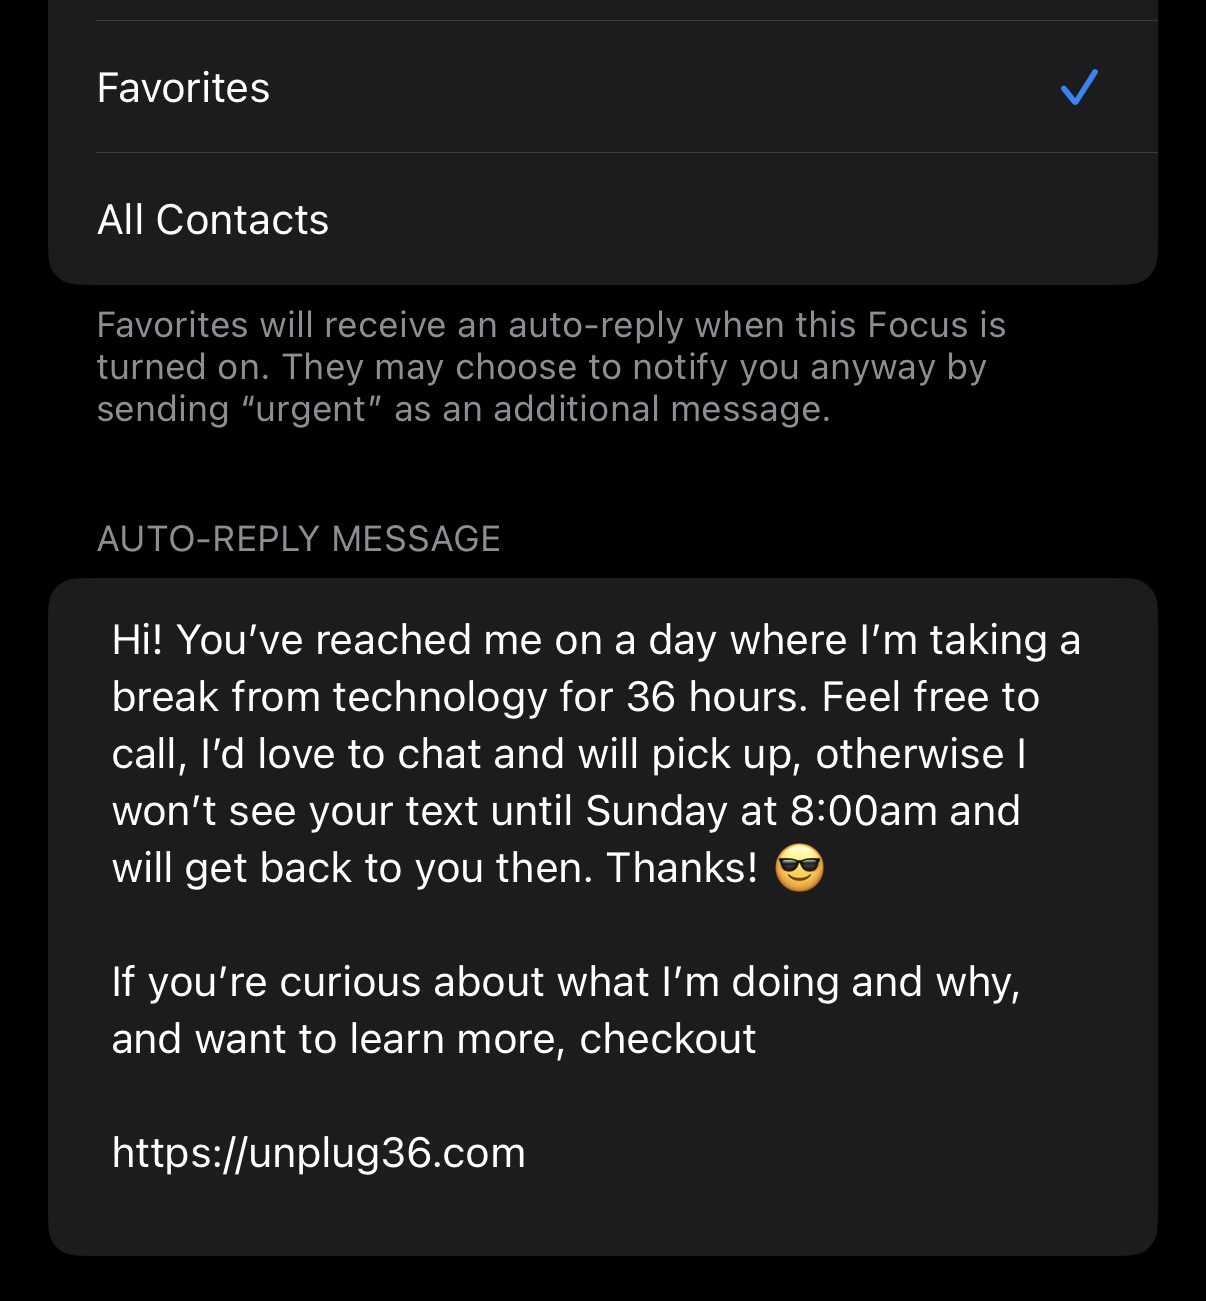
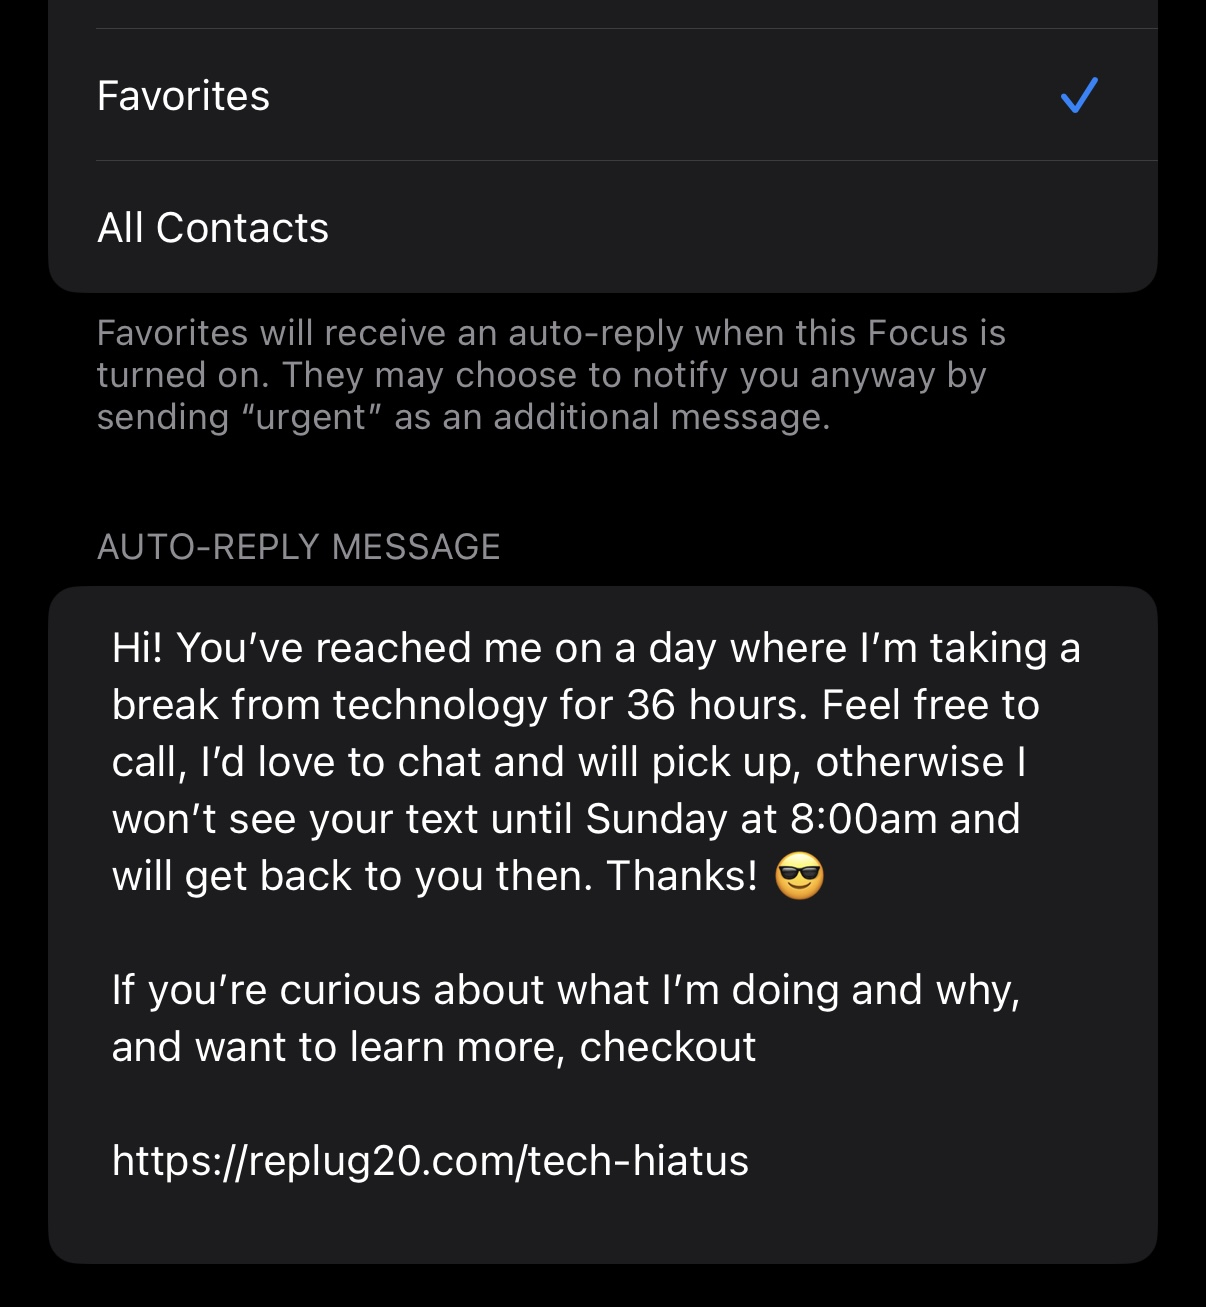
updass

diff --git a/src/Splash36Hour.tsx b/src/Splash36Hour.tsx
@@ -92,12 +92,11 @@ export const Splash36Hour: React.FC<SplashProps> = ({ setMode }) => {
         title="2"
       />
 
-      <p className="text-background text-sm opacity-50 mt-6">
+      <img src={drivingPic} className="w-[70vw] h-auto mx-auto my-8" />
+      <p className="text-background text-sm opacity-50 my-6">
         Now, you can ask a friend or family member to text you and ensure that a.) you don't get a ping and b.) they get
         the auto reply explaining what you are doing
       </p>
-
-      <img src={drivingPic} className="w-[70vw] h-auto mx-auto my-8" />
 
       <Rule
         anchor={"helllo"}
@@ -105,7 +104,7 @@ export const Splash36Hour: React.FC<SplashProps> = ({ setMode }) => {
         title="3"
       />
 
-      <p className="text-background text-sm opacity-50 mt-6">
+      <p className="text-background text-sm opacity-50 my-6">
         Despite going "off the grid", this is the most important step to being able to do something like an Unplug day
         without stressing out anyone who might need to reach you in an emergency (friends, loved ones, etc). <br />{" "}
         <br />
